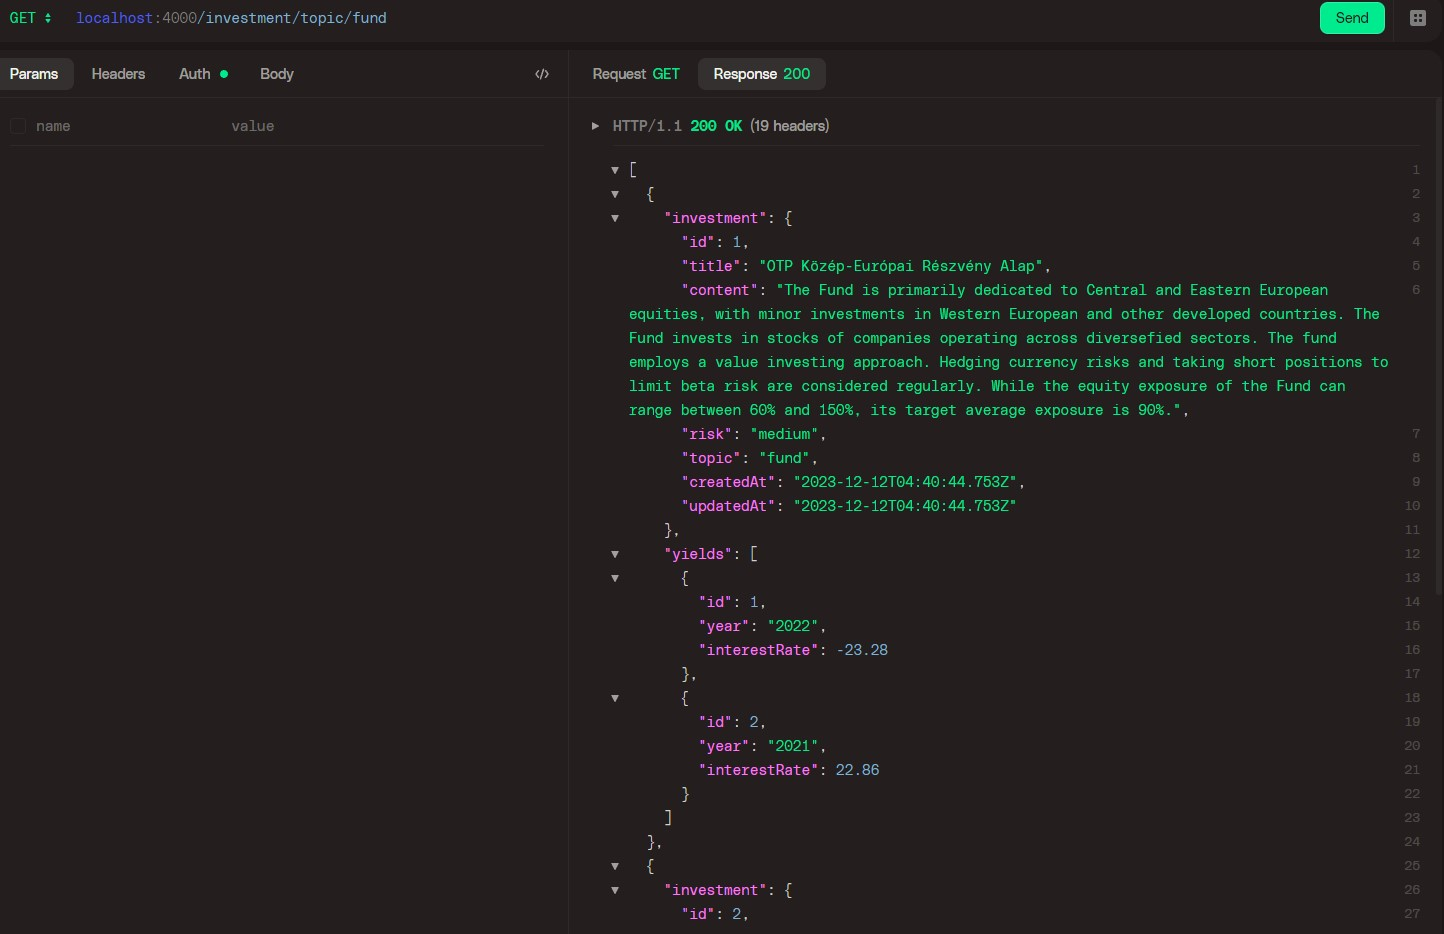
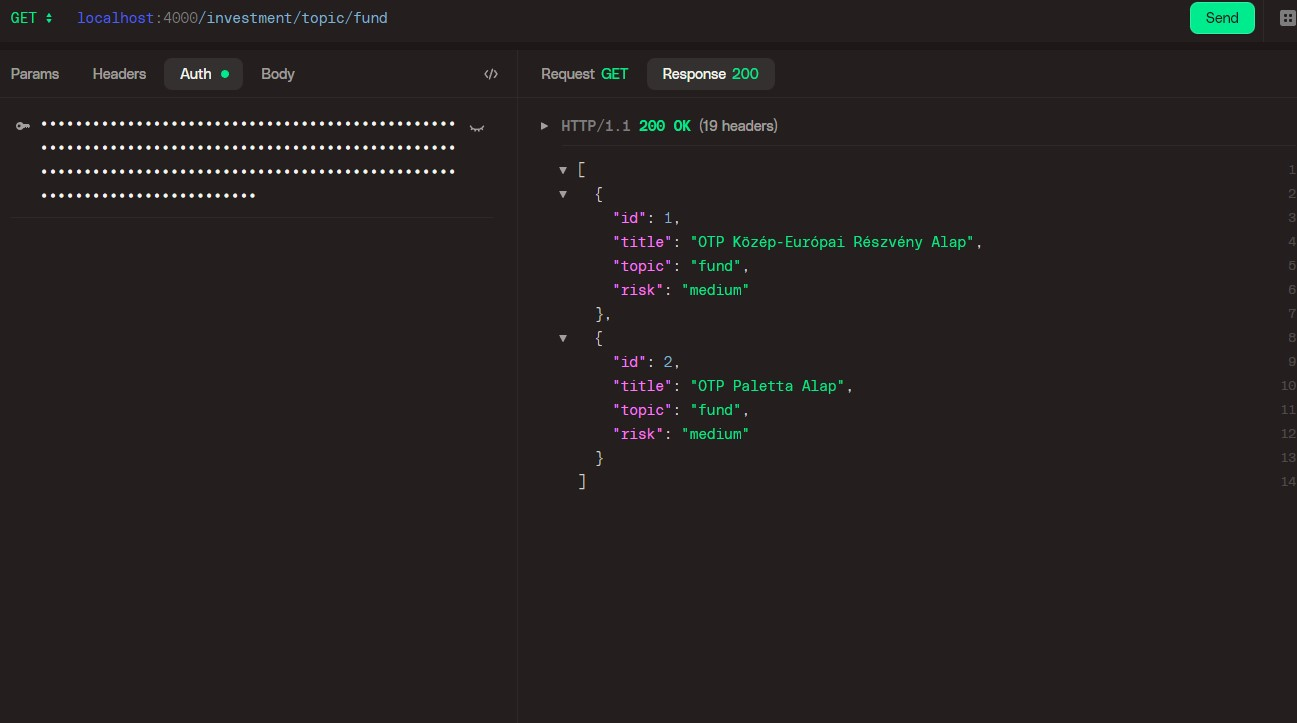
add examples

diff --git a/backend/src/controllers/investments_controller.js b/backend/src/controllers/investments_controller.js
@@ -12,28 +12,14 @@ class InvestmentsController {
         where: {
           risk: risk,
         },
+        attributes: ["id", "title", "topic", "risk"],
       });
       if (investments.length == 0) {
         return res
           .status(404)
           .json({ msg: "Investment not found with given risk!" });
       } else {
-        let output = new Array();
-        for (let i = 0; i < investments.length; ++i) {
-          const yields = await Yield.findAll({
-            where: {
-              investmentId: investments[i].id,
-            },
-            attributes: ["id", "year", "interestRate"],
-          });
-          const temp = {
-            investment: investments[i],
-            yields: yields,
-          };
-          TrackingService.add("Investment", investments[i].id, req.userId);
-          output.push(temp);
-        }
-        return res.status(200).json(output);
+        return res.status(200).json(investments);
       }
     } catch (e) {
       return res.status(500).json({
@@ -49,28 +35,14 @@ class InvestmentsController {
         where: {
           topic: topic,
         },
+        attributes: ["id", "title", "topic", "risk"],
       });
       if (investments.length == 0) {
         return res
           .status(404)
           .json({ msg: "Investment not found with given topic!" });
       } else {
-        let output = new Array();
-        for (let i = 0; i < investments.length; ++i) {
-          const yields = await Yield.findAll({
-            where: {
-              investmentId: investments[i].id,
-            },
-            attributes: ["id", "year", "interestRate"],
-          });
-          const temp = {
-            investment: investments[i],
-            yields: yields,
-          };
-          output.push(temp);
-          TrackingService.add("Investment", investments[i].id, req.userId);
-        }
-        return res.status(200).json(output);
+        return res.status(200).json(investments);
       }
     } catch (e) {
       return res.status(500).json({
@@ -93,7 +65,7 @@ class InvestmentsController {
             [Op.between]: [begin, end],
           },
         },
-        attributes: ["id", "title", "risk", "topic"],
+        attributes: ["id", "title", "topic", "risk"],
       });
       if (investments.length == 0) {
         return res
